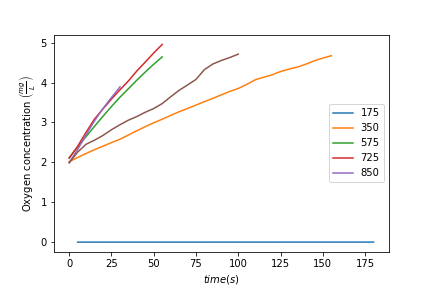
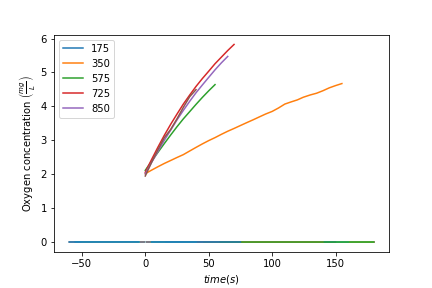
ah

diff --git a/Postlabs/Data Analysis-Gas Transfer.md b/Postlabs/Data Analysis-Gas Transfer.md
@@ -25,6 +25,7 @@ import collections
 import os
 from pathlib import Path
 import math
+import time
 
 
 def aeration_data(DO_column, dirpath):
@@ -49,7 +50,7 @@ def aeration_data(DO_column, dirpath):
 # The column of data containing the dissolved oxygen concentrations
 DO_column = 2
 dirpath = "/Users/barbaraoramah/github/Barbara-And-Ian/Aeration_Data"
-dirpath = "/Users/Ian/github/Barbara-And-Ian/Aeration_Data"
+#dirpath = "/Users/Ian/github/Barbara-And-Ian/Aeration_Data"
 filepaths, airflows, DO_data, time_data = aeration_data(DO_column,dirpath)
 
 #delete data that is less than 2 or greater than 6 mg/L
@@ -90,10 +91,10 @@ C_star
 #C_0 = DO_data[0]
 #C_initial = C_0[0]
 
-t_0 = time_data[0]
-t_initial = t_0[0]
-C_0 = DO_data[0]
-C_initial = C_0[0]
+#t_0 = time_data[0]
+#t_initial = t_0[0]
+#C_0 = DO_data[0]
+#C_initial = C_0[0]
 
 # need to create an empty array so data can loop into it, the x is delta t and y is the concentration change
 #intercept = intercept * y.units
@@ -107,19 +108,23 @@ C_initial = C_0[0]
 
 time_data
 airflows.size
-arr=np.empty(12, dtype="object")
-arr
-for i in range(11):
-  t_0 = time_data[i]
-  t_initial = t_0[i]
+time_change =np.empty(airflows.size, dtype="object")
+for i in range(airflows.size):
+  t_0 = time_data[i].magnitude
+  t_initial = t_0[0]
+  delta = t_0[i]-t_initial
+  time_change[i] = delta
+x = delta
 
+for i in range(airflows.size)
   C_0 = DO_data[i]
-  C_initial = C_0[i]
+  C_initial = C_0[0]
 
-  x = time_data[i]-t_initial
+  x = t_0[i]-t_initial
   y = -(1/x)*np.log((C_star-C_0)/(C_star-C_initial))
-  arr[i]=np.mean(y)
-  plt.plot(x,y)
+  arr[i] = y
+
+
 arr
 t_0 = time.data.magnitude
 t_0
@@ -136,13 +141,14 @@ plt.show()
 
 #x = time_data[i]-t_initial
 #y = -(1/x)*np.log((C_star-C_0)/(C_star-C_initial))
+airflows.size
 
 delta_t=np.empty(airflows.size,dtype="object")
 for i in range(airflows.size):
   t_temp=time_data[i].magnitude
   delta_t_temp=t_temp - t_temp[0]
   delta_t[i] = delta_t_temp
-  # delta_t=np.append(delta_t,[delta_t_temp])
+  #delta_t=np.append(delta_t,[delta_t_temp])
 x=delta_t
 print(Cstar)
 print(Cstar.magnitude)
